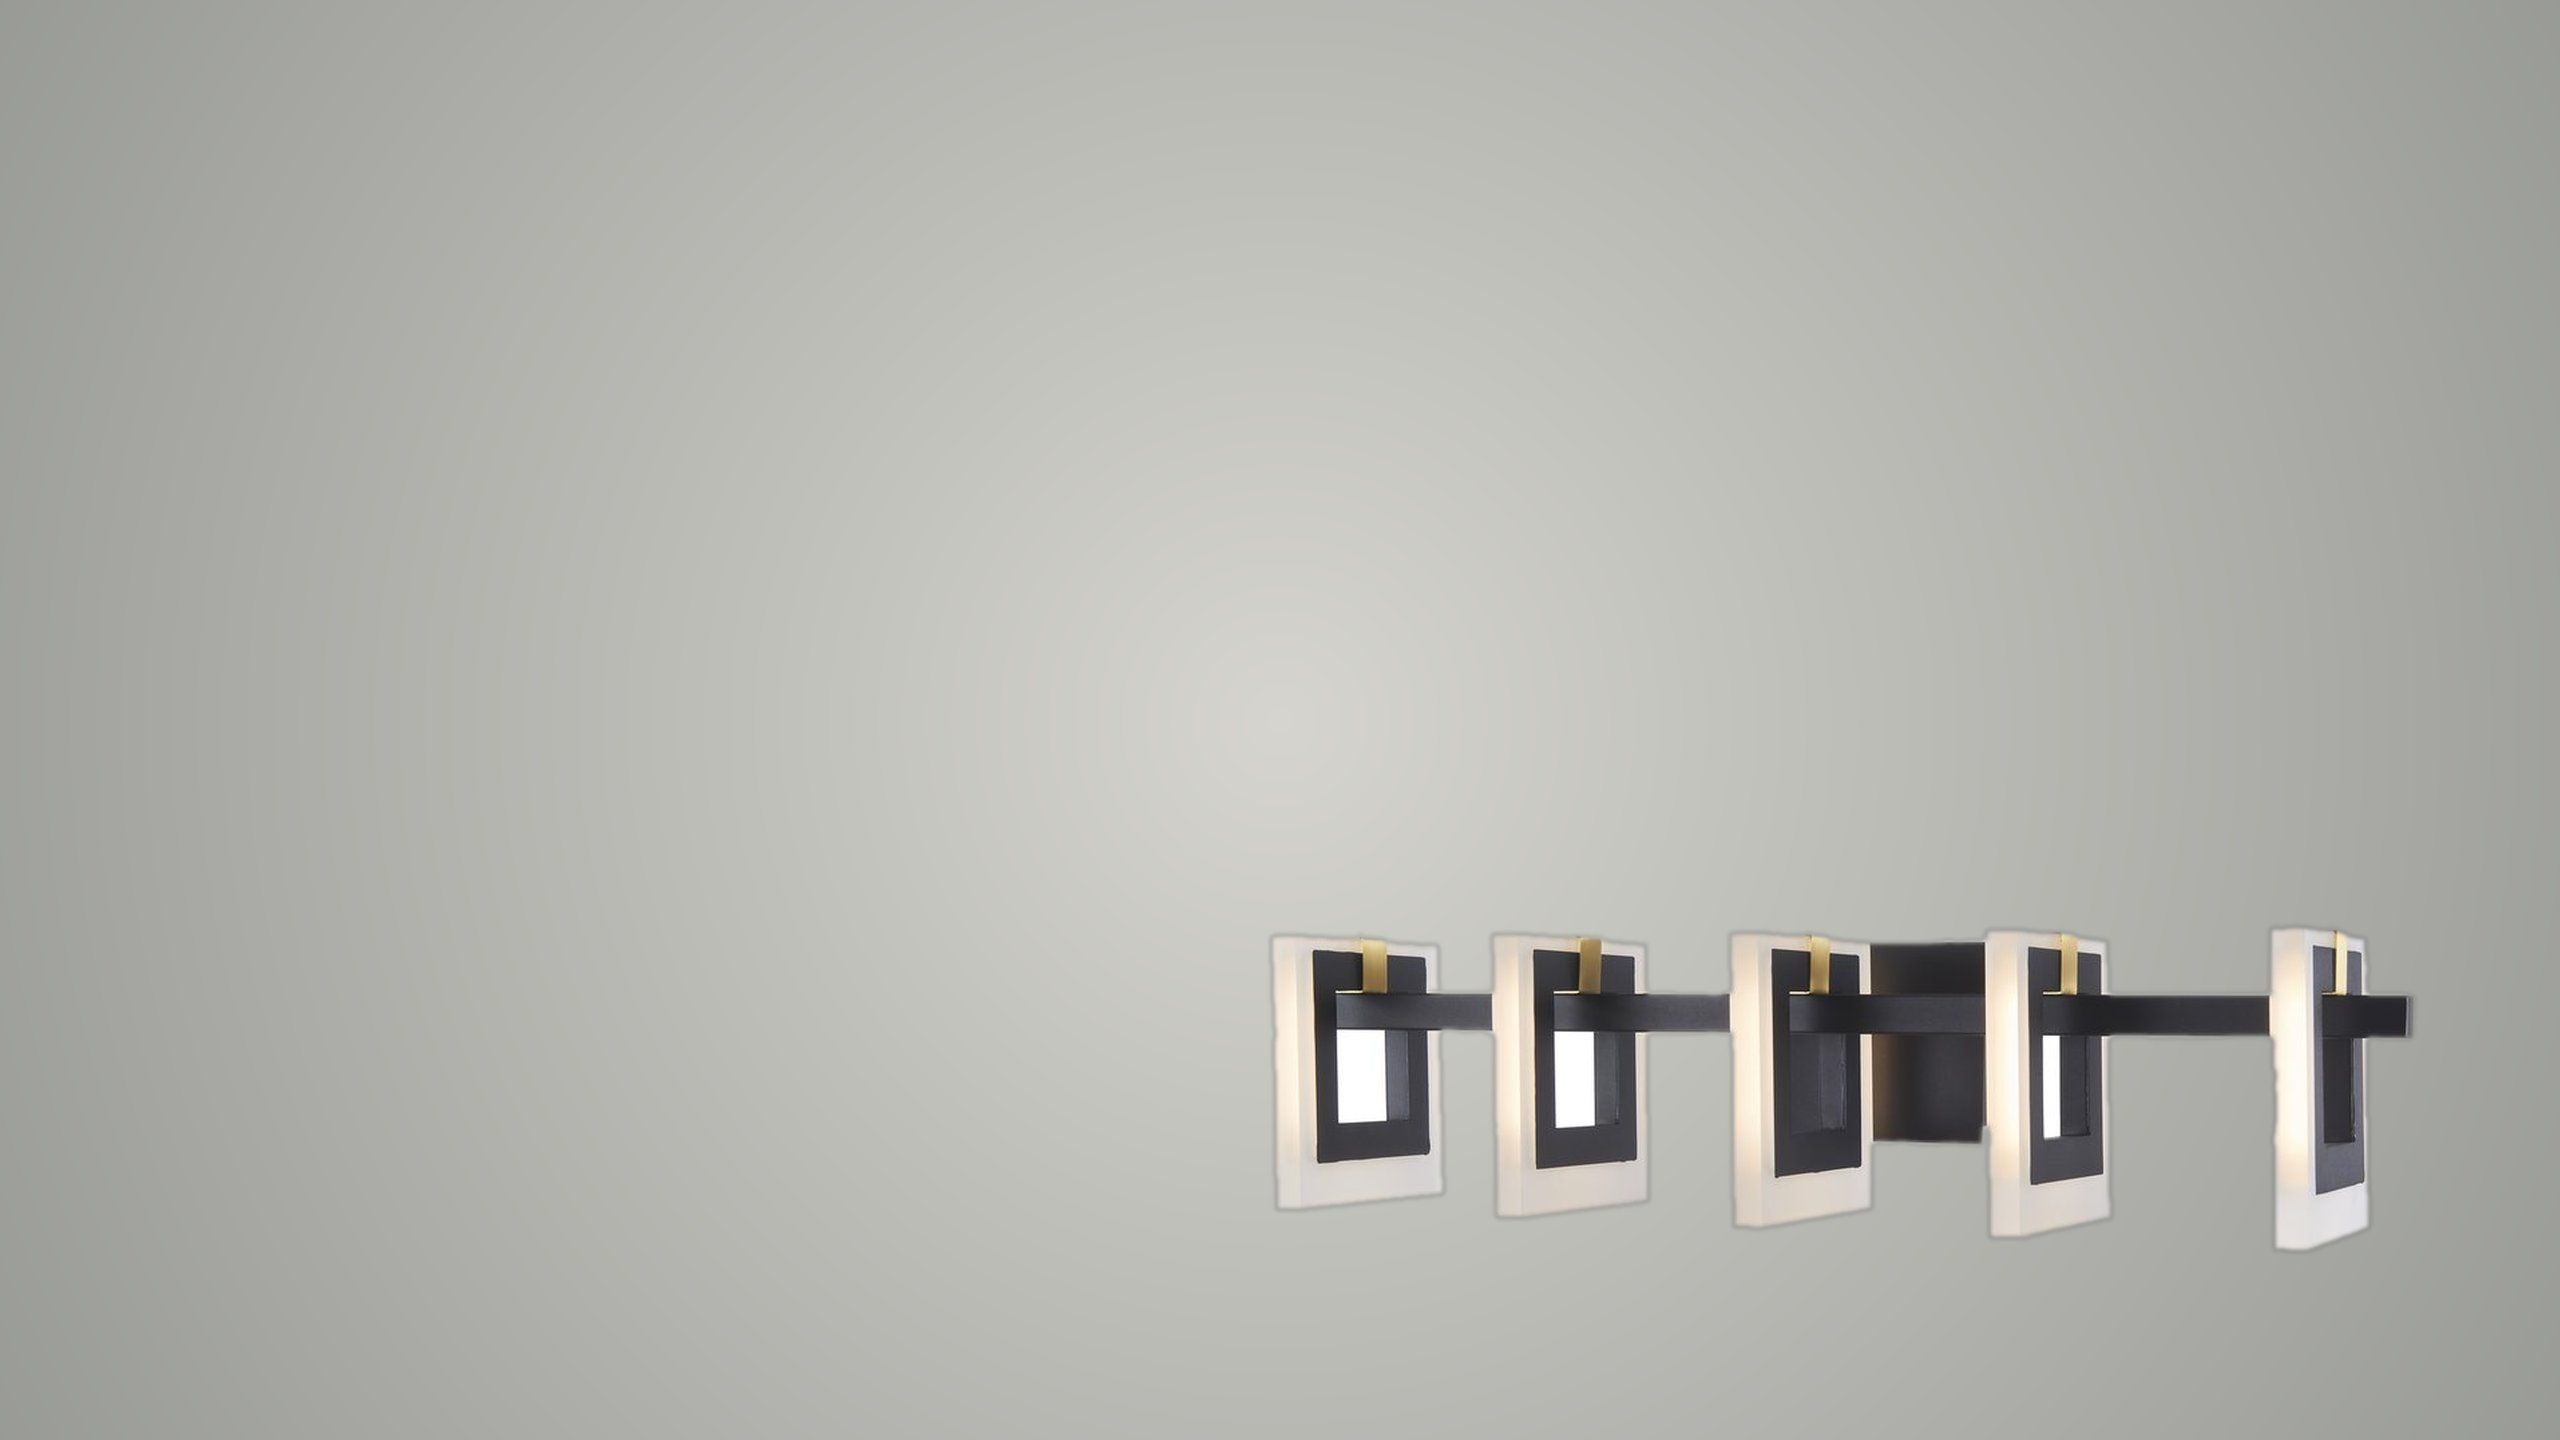
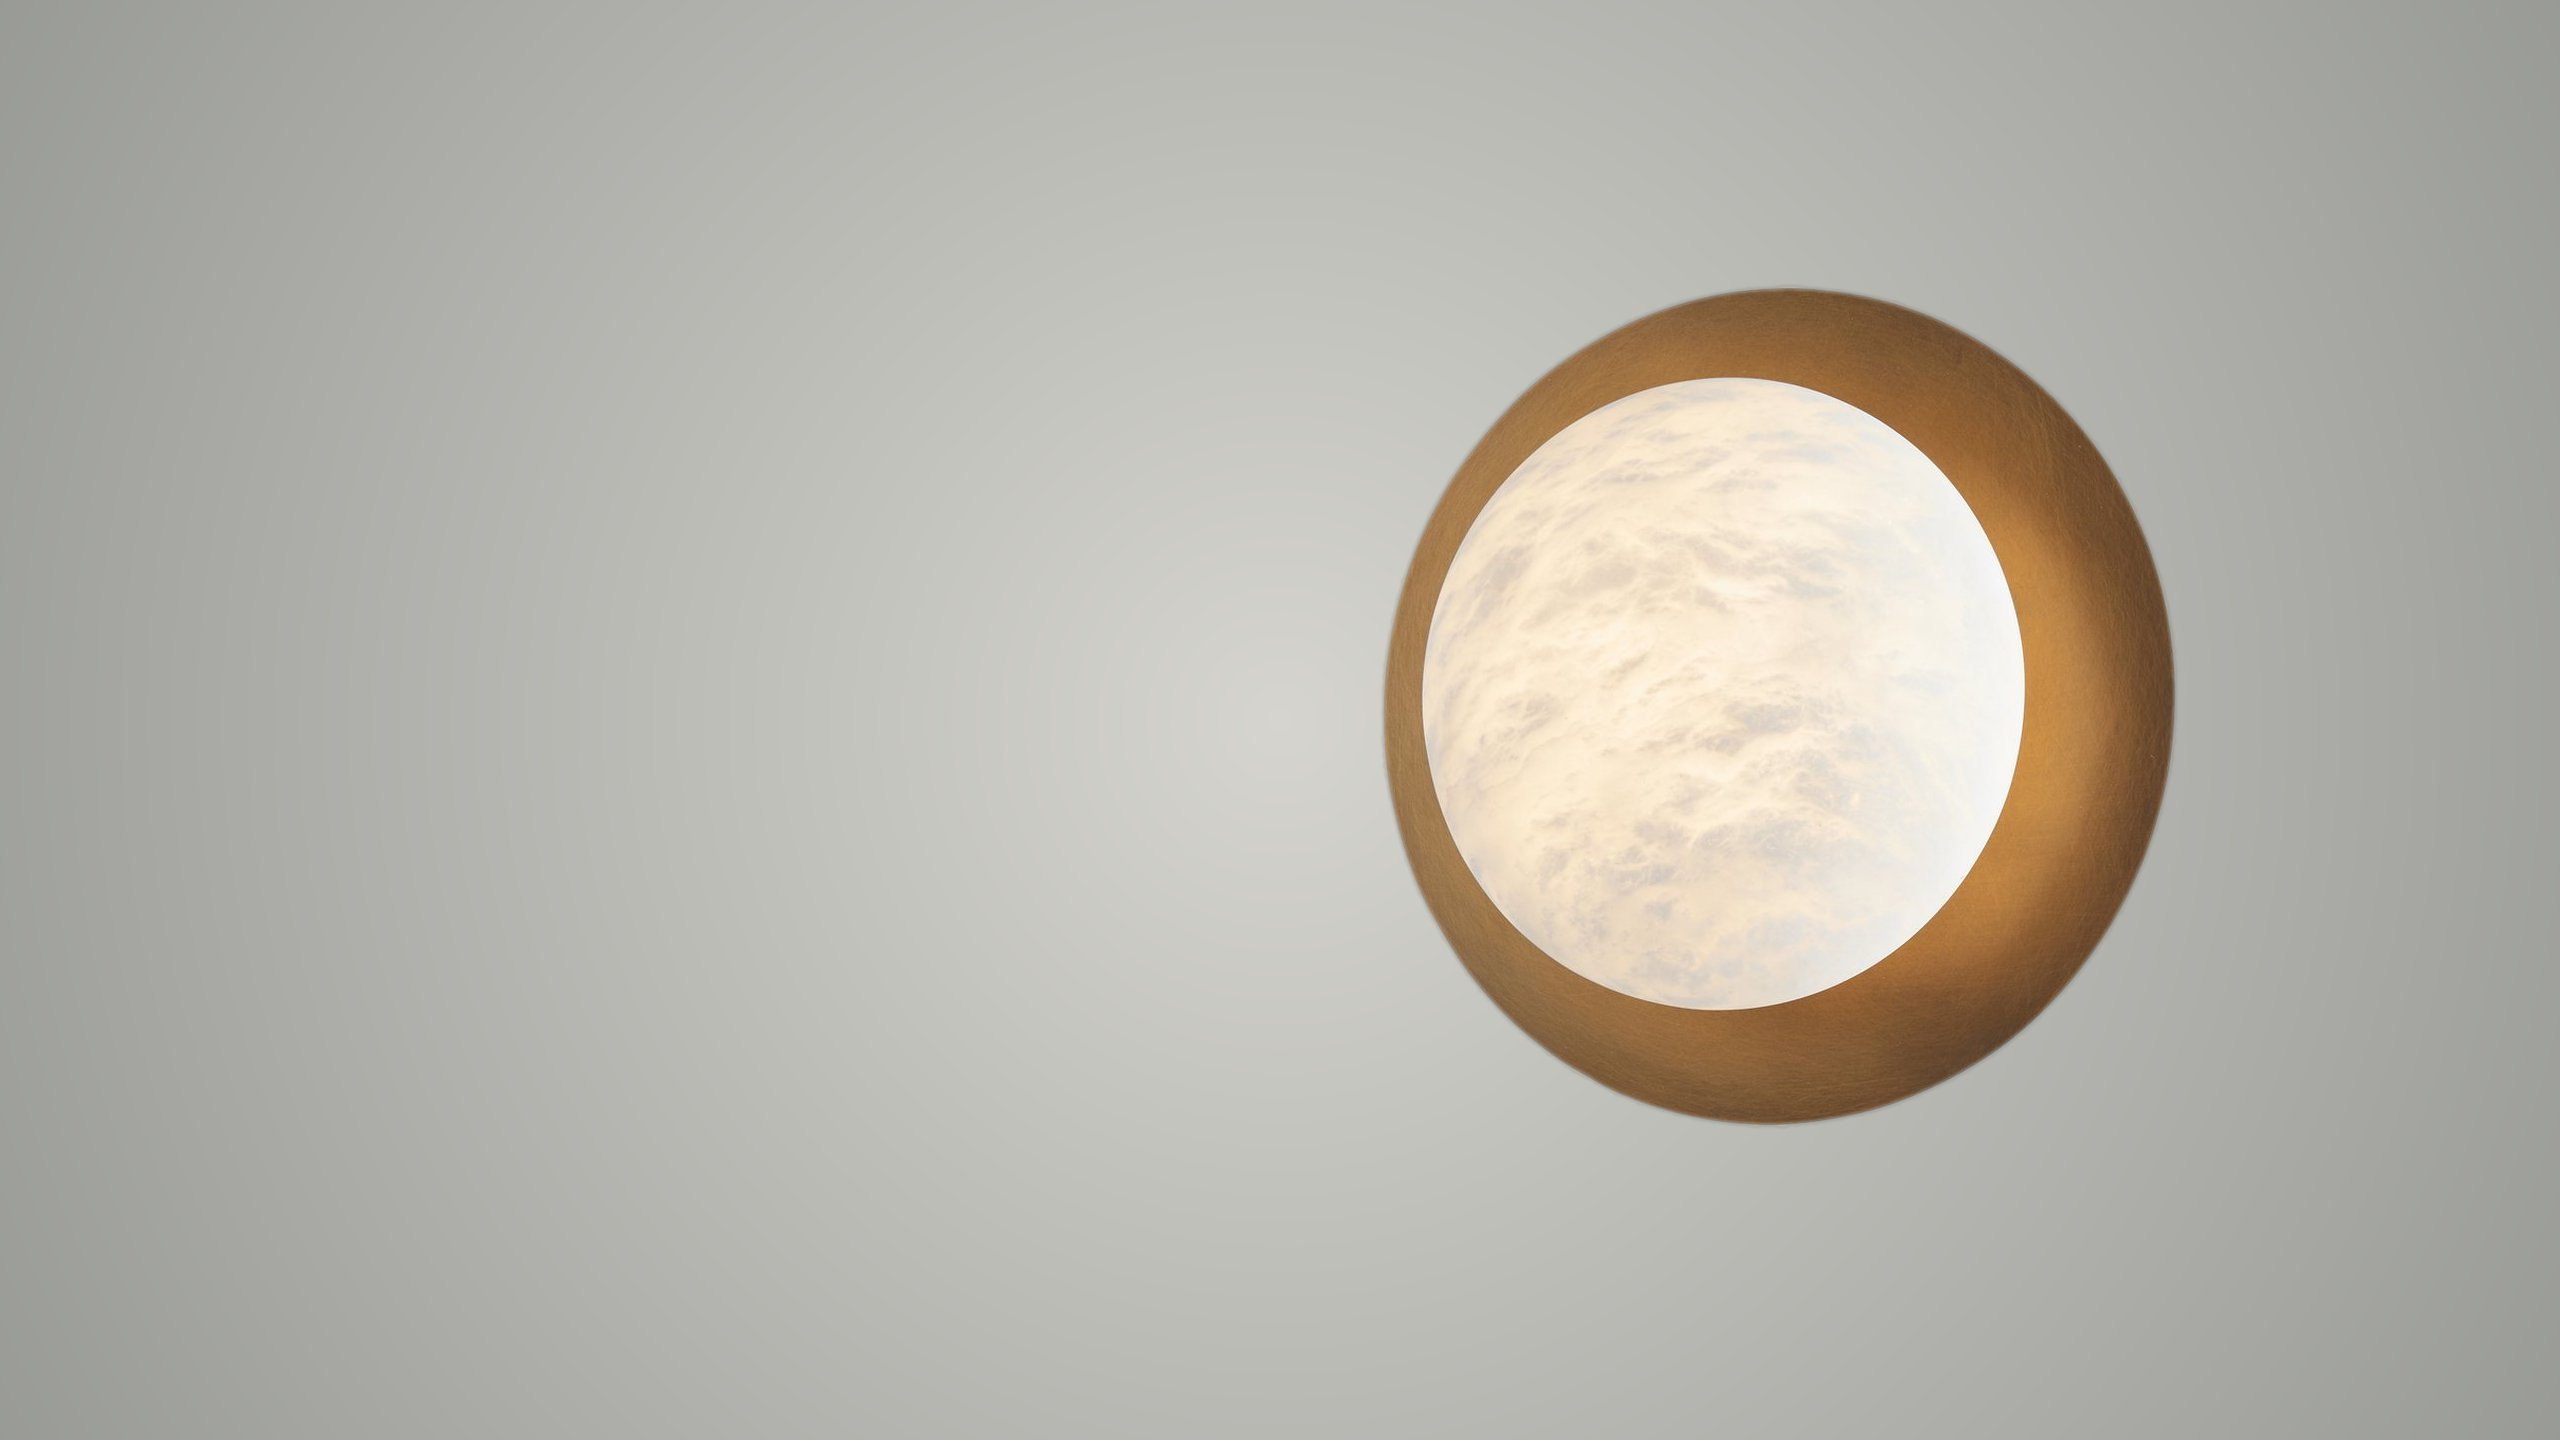
feat: sharper series heroes and centralised asset version
- pendant hero uses the linear chandelier, wall hero the round gold sconce,
  outdoor hero the lantern bulkhead; ceiling focus raised to mid-frame
- single fixture per series hero so nothing collides or clips
- asset version now lives in hugo.toml params

Changed region(s): [[0.5, 0.1875, 0.9688, 0.875]]

diff --git a/layouts/_partials/head.html b/layouts/_partials/head.html
@@ -36,14 +36,14 @@
 <meta name="twitter:image" content="{{ $ogImage }}">
 <meta name="twitter:title" content="{{ $pageTitle }}">
 <meta name="twitter:description" content="{{ $desc }}">
-<link rel="icon" href="{{ "favicon.png" | absURL }}?v=20261112k" type="image/png" sizes="64x64">
-<link rel="icon" href="{{ "images/favicon-32.png" | absURL }}?v=20261112k" type="image/png" sizes="32x32">
-<link rel="icon" href="{{ "images/favicon-512.png" | absURL }}?v=20261112k" type="image/png" sizes="512x512">
-<link rel="apple-touch-icon" href="{{ "images/favicon-180.png" | absURL }}?v=20261112k">
+<link rel="icon" href="{{ "favicon.png" | absURL }}?v={{ site.Params.assetVersion }}" type="image/png" sizes="64x64">
+<link rel="icon" href="{{ "images/favicon-32.png" | absURL }}?v={{ site.Params.assetVersion }}" type="image/png" sizes="32x32">
+<link rel="icon" href="{{ "images/favicon-512.png" | absURL }}?v={{ site.Params.assetVersion }}" type="image/png" sizes="512x512">
+<link rel="apple-touch-icon" href="{{ "images/favicon-180.png" | absURL }}?v={{ site.Params.assetVersion }}">
 <link rel="preconnect" href="https://fonts.googleapis.com">
 <link rel="preconnect" href="https://fonts.gstatic.com" crossorigin>
 <link href="https://fonts.googleapis.com/css2?family=Inter+Tight:ital,wght@0,300;0,400;0,500;0,600;1,300&family=Instrument+Serif:ital@0;1&display=swap" rel="stylesheet">
-<link rel="stylesheet" href="{{ "css/upriem.css" | absURL }}?v=20261112k">
+<link rel="stylesheet" href="{{ "css/upriem.css" | absURL }}?v={{ site.Params.assetVersion }}">
 {{ partial "schema.html" . }}
 {{- with site.Params.cloudflareAnalyticsToken }}
 <script defer src="https://static.cloudflareinsights.com/beacon.min.js" data-cf-beacon='{"token":"{{ . }}"}'></script>

diff --git a/layouts/products/list.html b/layouts/products/list.html
@@ -16,7 +16,7 @@
   -}}
   {{- $heroFile := index $heroFiles .Params.seriesKey | default "hero-interior.jpg" -}}
   <section class="page-hero page-hero--media">
-    <div class="page-hero__media" aria-hidden="true"><img src="{{ (printf "images/%s" $heroFile) | absURL }}?v=20261112k" alt="" width="1200" height="900"></div>
+    <div class="page-hero__media" aria-hidden="true"><img src="{{ (printf "images/%s" $heroFile) | absURL }}?v={{ site.Params.assetVersion }}" alt="" width="1200" height="900"></div>
     <div class="page-hero__scrim" aria-hidden="true"></div>
     <div class="shell">
       {{ partial "breadcrumbs.html" $crumbs }}
@@ -99,7 +99,7 @@
 {{- else -}}
   {{- $series := .Sections -}}
   <section class="page-hero page-hero--media">
-    <div class="page-hero__media" aria-hidden="true"><img src="{{ "images/hero-collection.jpg" | absURL }}?v=20261112k" alt="" width="2560" height="1440"></div>
+    <div class="page-hero__media" aria-hidden="true"><img src="{{ "images/hero-collection.jpg" | absURL }}?v={{ site.Params.assetVersion }}" alt="" width="2560" height="1440"></div>
     <div class="page-hero__scrim" aria-hidden="true"></div>
     <div class="shell">
       {{ partial "breadcrumbs.html" (slice (dict "name" "Home" "url" ("" | absURL)) (dict "name" "Products" "url" .RelPermalink)) }}

diff --git a/layouts/index.html b/layouts/index.html
@@ -5,8 +5,8 @@
 
 <section class="hero">
   <div class="hero-media">
-    <img class="hero-img hero-img--on" src="{{ "images/hero-interior.jpg" | absURL }}?v=20261112k" alt="Chrome and opal glass pendant lights glowing against a dark wall" width="2560" height="1440" fetchpriority="high">
-    <img class="hero-img hero-img--off" src="{{ "images/hero-interior-off.jpg" | absURL }}?v=20261112k" alt="" width="2560" height="1440" loading="lazy" aria-hidden="true">
+    <img class="hero-img hero-img--on" src="{{ "images/hero-interior.jpg" | absURL }}?v={{ site.Params.assetVersion }}" alt="Chrome and opal glass pendant lights glowing against a dark wall" width="2560" height="1440" fetchpriority="high">
+    <img class="hero-img hero-img--off" src="{{ "images/hero-interior-off.jpg" | absURL }}?v={{ site.Params.assetVersion }}" alt="" width="2560" height="1440" loading="lazy" aria-hidden="true">
   </div>
   <div class="hero-scrim" aria-hidden="true"></div>
   <button class="lights-toggle" type="button" aria-pressed="false" aria-label="Switch the lights in the cover photograph off or on">

diff --git a/layouts/_partials/header.html b/layouts/_partials/header.html
@@ -3,8 +3,8 @@
   <div class="shell header-inner">
     <a class="brand" href="{{ "" | absURL }}" aria-label="{{ $brand }} home">
       <span class="brand-mark" aria-hidden="true">
-        <img class="bm-light"  src="{{ "images/logo-mark-light.png"  | absURL }}?v=20261112k" alt="" width="24" height="38" loading="eager">
-        <img class="bm-dark"   src="{{ "images/logo-mark-dark.png"   | absURL }}?v=20261112k" alt="" width="24" height="38" loading="eager">
+        <img class="bm-light"  src="{{ "images/logo-mark-light.png"  | absURL }}?v={{ site.Params.assetVersion }}" alt="" width="24" height="38" loading="eager">
+        <img class="bm-dark"   src="{{ "images/logo-mark-dark.png"   | absURL }}?v={{ site.Params.assetVersion }}" alt="" width="24" height="38" loading="eager">
       </span>
       <span class="brand-text">
         <span class="brand-name">Upriem</span>

diff --git a/layouts/_default/single.html b/layouts/_default/single.html
@@ -2,7 +2,7 @@
 {{- $isBlog := eq .Section "blog" -}}
 <article class="page-single{{ if $isBlog }} is-post{{ end }}">
   <header class="page-hero page-hero--media">
-    <div class="page-hero__media" aria-hidden="true"><img src="{{ (.Params.heroImage | default "images/hero-interior-off.jpg") | absURL }}?v=20261112k" alt="" width="2560" height="1440"></div>
+    <div class="page-hero__media" aria-hidden="true"><img src="{{ (.Params.heroImage | default "images/hero-interior-off.jpg") | absURL }}?v={{ site.Params.assetVersion }}" alt="" width="2560" height="1440"></div>
     <div class="page-hero__scrim" aria-hidden="true"></div>
     <div class="shell{{ if $isBlog }} narrow{{ end }}">
       {{- if not .IsHome }}

diff --git a/layouts/contact/single.html b/layouts/contact/single.html
@@ -1,6 +1,6 @@
 {{ define "main" }}
 <section class="page-hero page-hero--contact page-hero--media">
-  <div class="page-hero__media" aria-hidden="true"><img src="{{ (.Params.heroImage | default "images/hero-contact.jpg") | absURL }}?v=20261112k" alt="" width="2560" height="1440"></div>
+  <div class="page-hero__media" aria-hidden="true"><img src="{{ (.Params.heroImage | default "images/hero-contact.jpg") | absURL }}?v={{ site.Params.assetVersion }}" alt="" width="2560" height="1440"></div>
   <div class="page-hero__scrim" aria-hidden="true"></div>
   <div class="shell">
     {{ partial "breadcrumbs.html" (slice (dict "name" "Home" "url" ("" | absURL)) (dict "name" "Contact" "url" .RelPermalink)) }}

diff --git a/layouts/_default/list.html b/layouts/_default/list.html
@@ -1,6 +1,6 @@
 {{ define "main" }}
 <section class="page-hero page-hero--media">
-  <div class="page-hero__media" aria-hidden="true"><img src="{{ (.Params.heroImage | default "images/hero-interior-off.jpg") | absURL }}?v=20261112k" alt="" width="2560" height="1440"></div>
+  <div class="page-hero__media" aria-hidden="true"><img src="{{ (.Params.heroImage | default "images/hero-interior-off.jpg") | absURL }}?v={{ site.Params.assetVersion }}" alt="" width="2560" height="1440"></div>
   <div class="page-hero__scrim" aria-hidden="true"></div>
   <div class="shell">
     {{ partial "breadcrumbs.html" (slice (dict "name" "Home" "url" ("" | absURL)) (dict "name" .Title "url" .RelPermalink)) }}

diff --git a/layouts/_partials/footer.html b/layouts/_partials/footer.html
@@ -2,7 +2,7 @@
 <footer class="site-footer">
   <div class="shell">
     <span class="footer-wordmark" aria-hidden="true">
-      <img src="{{ "images/logo-full-dark.png" | absURL }}?v=20261112k" alt="Upriem Lighting" width="185" height="200" style="max-height:190px;width:auto;display:block">
+      <img src="{{ "images/logo-full-dark.png" | absURL }}?v={{ site.Params.assetVersion }}" alt="Upriem Lighting" width="185" height="200" style="max-height:190px;width:auto;display:block">
     </span>
 
     <div class="footer-grid">

diff --git a/layouts/_partials/series-visual.html b/layouts/_partials/series-visual.html
@@ -9,6 +9,6 @@
 -}}
 {{- $file := index $files $key | default "hero-interior.jpg" -}}
 <div class="series-card__visual">
-  <img src="{{ (printf "images/%s" $file) | absURL }}?v=20261112k" alt="{{ .Params.seriesName }} by Upriem" loading="lazy" width="1200" height="900">
+  <img src="{{ (printf "images/%s" $file) | absURL }}?v={{ site.Params.assetVersion }}" alt="{{ .Params.seriesName }} by Upriem" loading="lazy" width="1200" height="900">
   <span class="series-card__name">{{ .Params.seriesName }}</span>
 </div>
